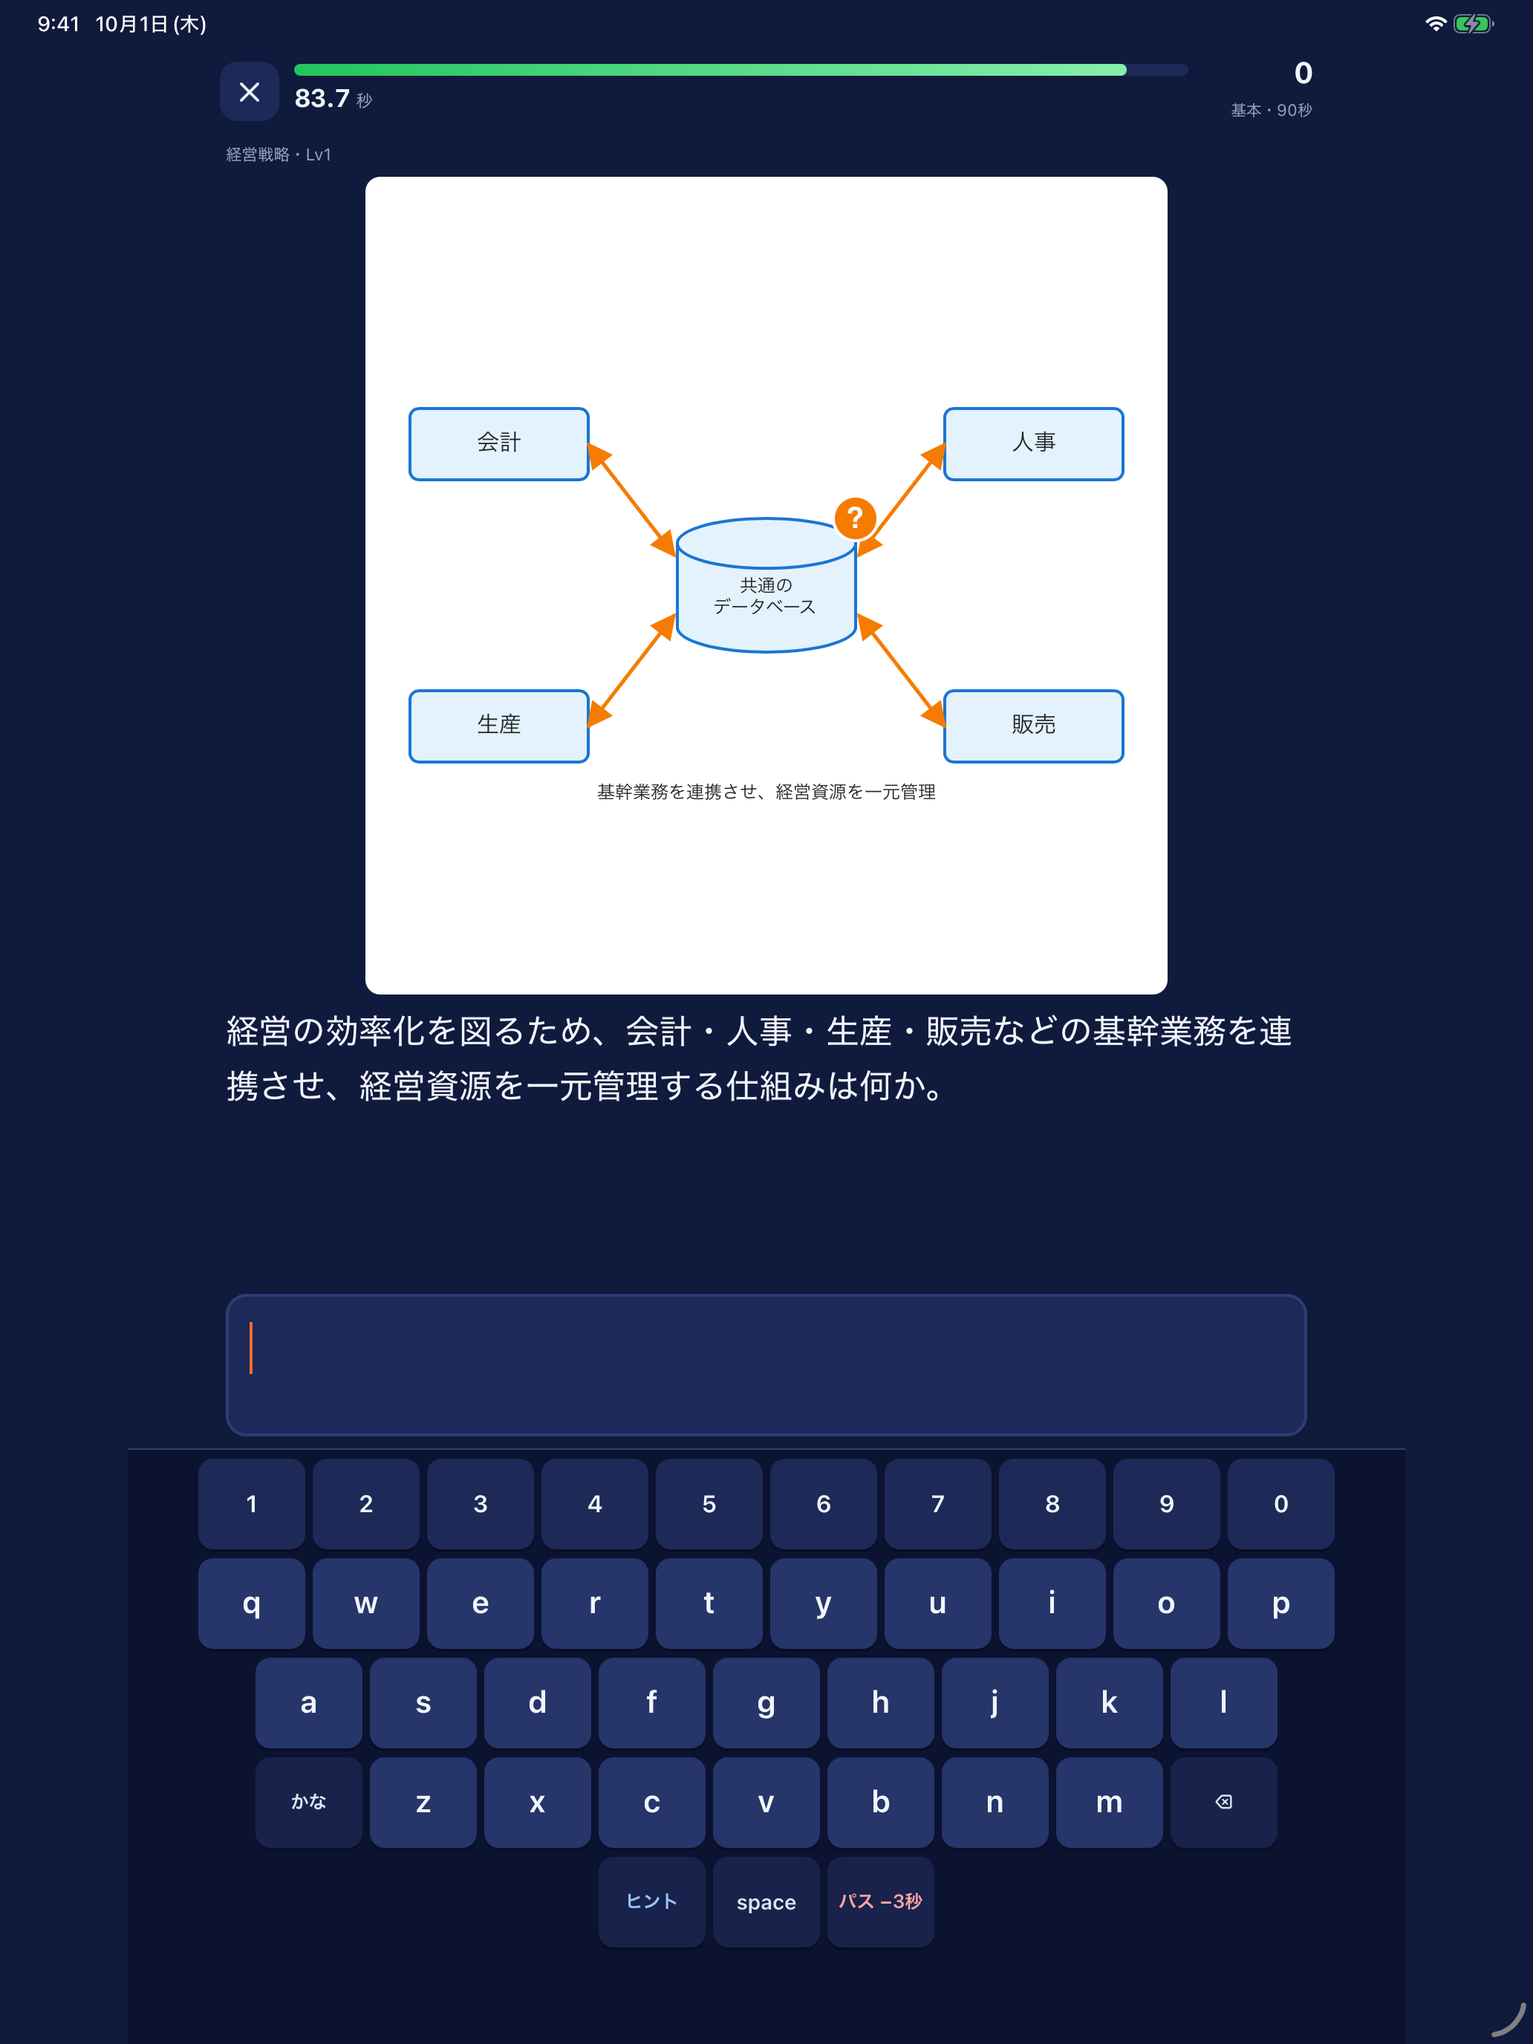
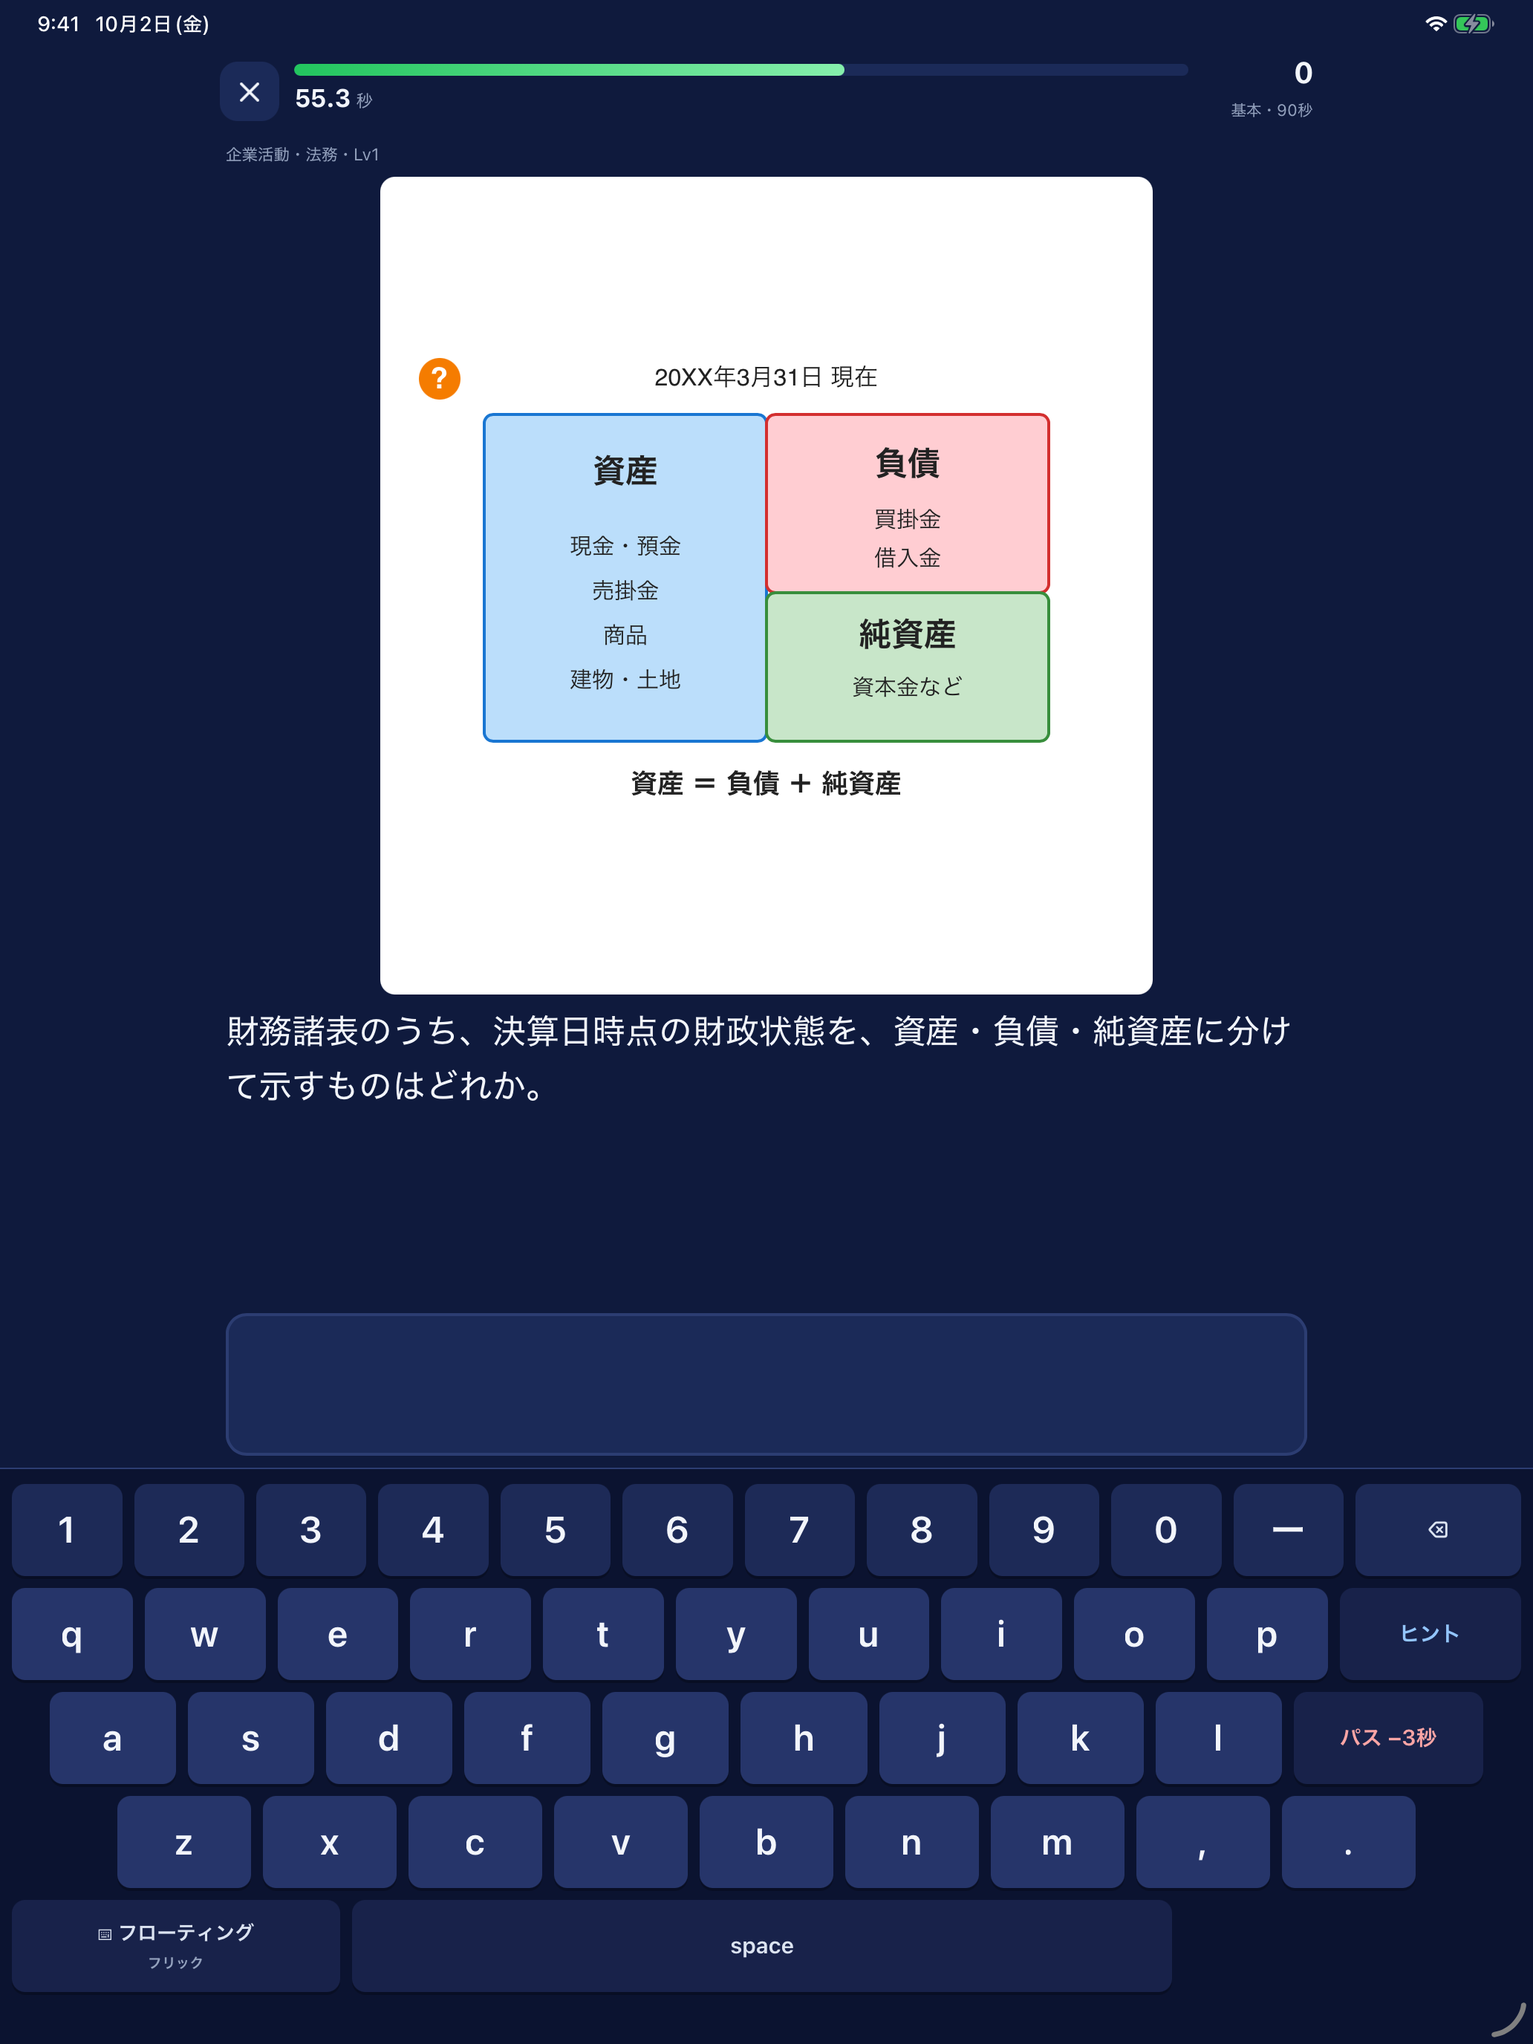
iPad: keyboard like the system one (docked full-width romaji, floating flick), Web-style versus panels
- Docked: full-width romaji keyboard at the bottom, about 1/4 of the height in portrait
  and 2/5 in landscape; kana answers are typed in romaji, the pending romaji shows at
  the bottom right
- Floating: the iPhone flick keyboard floats and can be dragged by its bar; choice and
  position are remembered; starts just above the answer box
- External keyboard still takes priority (on-screen keys fold down to ヒント・パス)
- Versus on iPad: you and each opponent side by side just above the keyboard, like the Web
- Ads unchanged (iPhone style bottom banner); new play and floating screenshots

diff --git a/mobile/www/js/keyboard.js b/mobile/www/js/keyboard.js
@@ -61,8 +61,11 @@ export class Keyboard {
     this.pressed = new Set();
     this.clear = () => { this.pop.hidden = true; [...this.pressed].forEach(r => r()); this.el.querySelectorAll('.kb-k.on').forEach(x => x.classList.remove('on')); };
     ['touchend', 'touchcancel'].forEach(t => document.addEventListener(t, e => { if (!e.touches.length) setTimeout(this.clear, 0); }));
-    this.render();
+    // iPad：ふだんは iPad 本体と同じ「下に横いっぱいのローマ字キーボード」。フローティングにすると iPhone の大きさのフリックが浮く
+    this.ipad = Math.min(screen.width, screen.height) >= 700;
+    try { this.floating = this.ipad && localStorage.getItem('kb-float') === '1'; } catch (e) { this.floating = false; }
     this.attachHardware();
+    this.render();
   }
 
   // 外付けキーボード。打ったら画面のキーボードをしまい（ヒント・パスだけ残す）、画面にさわったら戻す
@@ -84,27 +87,33 @@ export class Keyboard {
       // 残りが n だけで、答えの最後の「ん」なら、n 1 つで「ん」にする（途中の「ん」は次のキーで決める）
       if (buf === 'n' && peek(2) === 'ん') { send('ん'); buf = ''; }
     };
+    // 1 キー分（外付けキーボードと、iPad の画面のローマ字キーボードで共通）
+    const showBuf = () => { const b = this.el.querySelector('.kb-buf'); if (b) b.textContent = buf; };
+    this.typeRomaji = c => {
+      // 答えを打ち終えて次の問題を待っている間のキー（nn の 2 つ目など）は捨てる
+      if (this.h.peek && peek(1) === '') { buf = ''; showBuf(); return; }
+      // 英字の答え・英字のところは、そのまま渡す
+      if (this.mode === 'latin' || (!buf && isAsciiCh(peek(1)) && peek(1) !== 'ー')) { send(c); return; }
+      if (!/^[a-z'\-]$/.test(c)) { send(c); return; }
+      buf += c;
+      flush();
+      showBuf();
+    };
+    this.romajiBack = () => { if (buf) { buf = buf.slice(0, -1); showBuf(); } else this.h.onBack(); };
     const onKey = e => {
       if (!document.body.contains(this.el)) { document.removeEventListener('keydown', onKey, true); return; }
       if (e.metaKey || e.ctrlKey || e.altKey || e.isComposing) return;
       const k = e.key;
-      if (k === 'Backspace') { e.preventDefault(); if (buf) buf = buf.slice(0, -1); else this.h.onBack(); return; }
+      if (k === 'Backspace') { e.preventDefault(); this.romajiBack(); return; }
       if (k === 'Tab') { e.preventDefault(); if (this.h.onHint && !this.h.noHint) this.h.onHint(); return; }
       if (k.length !== 1) return;
       e.preventDefault();
       document.body.classList.add('hw-kb');
-      const c = k.toLowerCase();
-      // 答えを打ち終えて次の問題を待っている間のキー（nn の 2 つ目など）は捨てる
-      if (this.h.peek && peek(1) === '') { buf = ''; return; }
-      // 英字の答え・英字のところは、そのまま渡す
-      if (this.mode === 'latin' || (!buf && isAsciiCh(peek(1)) && peek(1) !== 'ー')) { send(c === ' ' ? ' ' : c); return; }
-      if (!/^[a-z'\-]$/.test(c)) { send(c); return; }
-      buf += c;
-      flush();
+      this.typeRomaji(k.toLowerCase());
     };
     document.addEventListener('keydown', onKey, true);
     // 画面にさわったら、画面のキーボードに戻す
-    const touch = () => { document.body.classList.remove('hw-kb'); buf = ''; };
+    const touch = () => { if (document.body.classList.contains('hw-kb')) { document.body.classList.remove('hw-kb'); buf = ''; showBuf(); } };
     document.addEventListener('touchstart', touch, { passive: true });
 
     // iPad では、外付けキーボードの字は「入力欄」に届く。見えない入力欄を置いて、そこに来た字を受け取る
@@ -129,7 +138,7 @@ export class Keyboard {
     };
     sink.addEventListener('beforeinput', e => {
       if (e.inputType === 'insertText' && e.data) { e.preventDefault(); feed(e.data); }
-      else if (e.inputType === 'deleteContentBackward') { e.preventDefault(); if (buf) buf = buf.slice(0, -1); else this.h.onBack(); }
+      else if (e.inputType === 'deleteContentBackward') { e.preventDefault(); this.romajiBack(); }
     });
     // 日本語入力（かな変換）を通ったときは、確定した字を受け取る
     sink.addEventListener('compositionend', e => { if (e.data) feed(e.data); sink.value = ''; });
@@ -152,10 +161,77 @@ export class Keyboard {
 
   render() {
     const k = (cls, label, data, extra) => `<button type="button" class="kb-k ${cls}" ${data || ''} ${extra || ''}>${label}</button>`;
+    if (this.ipad && !this.floating) return this.renderDock(k);
+    if (this.ipad && this.floating) return this.renderFloating(k);
+    this.renderKeys(this.el, k);
+  }
+
+  // iPad 本体のキーボードと同じ形：下に横いっぱい、ローマ字で打つ（かなの答えもローマ字で。英字の答えはそのまま）
+  renderDock(k) {
+    const keys = s => [...s].map(c => k('kb-latin', c, `data-r="${c}"`)).join('');
+    this.el.className = 'kb kb-dock' + (this.h.noHint ? ' no-hint' : '');
+    this.el.style.left = this.el.style.top = '';
+    this.el.innerHTML =
+      `<div class="kb-row kb-num">${keys('1234567890')}${k('kb-latin', 'ー', 'data-r="-"')}${k('kb-fn kb-back', '⌫', 'data-act="back"')}</div>` +
+      `<div class="kb-row">${keys('qwertyuiop')}${k('kb-fn kb-hint', 'ヒント', 'data-act="hint"')}</div>` +
+      `<div class="kb-row kb-in">${keys('asdfghjkl')}${k('kb-fn kb-pass', this.h.passLabel || 'パス −3秒', 'data-act="pass"')}</div>` +
+      `<div class="kb-row kb-in2">${keys('zxcvbnm')}${k('kb-latin', ',', 'data-r=","')}${k('kb-latin', '.', 'data-r="."')}</div>` +
+      `<div class="kb-row">${k('kb-fn kb-floatbtn', '⌨ フローティング<small>フリック</small>', 'data-act="float"')}${k('kb-fn kb-space', 'space', 'data-r=" "')}<span class="kb-buf" aria-live="polite"></span></div>`;
+    this.el.querySelectorAll('.kb-k').forEach(b => this.bind(b));
+  }
+
+  // iPad のフローティング：iPhone の大きさのキーボード（フリック）が浮いていて、上の帯をつかんで動かせる
+  renderFloating(k) {
+    this.el.className = 'kb kb-floating' + (this.h.noHint ? ' no-hint' : '');
+    this.el.innerHTML = `<div class="kb-handle"><span class="kb-grip"></span><button type="button" class="kb-dockbtn">下に戻す</button></div><div class="kb-body"></div>`;
+    this.renderKeys(this.el.querySelector('.kb-body'), k, true);
+    let pos = null;
+    try { pos = JSON.parse(localStorage.getItem('kb-float-pos') || 'null'); } catch (e) {}
+    const place = (x, y) => {
+      const w = this.el.offsetWidth || 360, hh = this.el.offsetHeight || 300;
+      x = Math.max(4, Math.min(innerWidth - w - 4, x)); y = Math.max(4, Math.min(innerHeight - hh - 4, y));
+      this.el.style.left = x + 'px'; this.el.style.top = y + 'px';
+      return { x, y };
+    };
+    // はじめは右下、答えの欄にかぶらないよう、そのすぐ上に置く
+    requestAnimationFrame(() => {
+      const w = this.el.offsetWidth || 360, hh = this.el.offsetHeight || 300;
+      const ans = document.getElementById('ans');
+      const top = ans ? ans.getBoundingClientRect().top - hh - 12 : innerHeight - hh - 24;
+      place(pos ? pos.x : innerWidth - w - 24, pos ? pos.y : top);
+    });
+    const handle = this.el.querySelector('.kb-handle');
+    let drag = null;
+    handle.addEventListener('touchstart', e => {
+      if (e.target.closest('.kb-dockbtn')) return;
+      const t0 = e.touches[0], r = this.el.getBoundingClientRect();
+      drag = { dx: t0.clientX - r.left, dy: t0.clientY - r.top };
+      e.preventDefault();
+    }, { passive: false });
+    handle.addEventListener('touchmove', e => {
+      if (!drag) return;
+      const t0 = e.touches[0];
+      const p = place(t0.clientX - drag.dx, t0.clientY - drag.dy);
+      try { localStorage.setItem('kb-float-pos', JSON.stringify(p)); } catch (x) {}
+      e.preventDefault();
+    }, { passive: false });
+    handle.addEventListener('touchend', () => { drag = null; });
+    this.el.querySelector('.kb-dockbtn').onclick = () => this.setFloating(false);
+  }
+
+  setFloating(on) {
+    this.floating = !!on;
+    try { localStorage.setItem('kb-float', on ? '1' : '0'); } catch (e) {}
+    this.render();
+  }
+
+  // iPhone（と iPad のフローティング）の中身：かなはフリック、英字は QWERTY
+  renderKeys(box, k, floating) {
+    const fl = floating ? '' : 'kb ';
     if (this.mode === 'kana') {
       const kana = r => r.map(c => k('kb-kana', `<span class="kb-main">${c}</span><span class="kb-sub">${FLICK[c].slice(1).filter(Boolean).join('')}</span>`, `data-kana="${c}"`)).join('');
-      this.el.className = 'kb kb-flick' + (this.h.noHint ? ' no-hint' : '');
-      this.el.innerHTML =
+      box.className = fl + 'kb-flick' + (this.h.noHint ? ' no-hint' : '');
+      box.innerHTML =
         k('kb-fn kb-mode', 'ABC', 'data-act="mode"') + kana(['あ', 'か', 'さ']) + k('kb-fn kb-back', '⌫', 'data-act="back"') +
         k('kb-fn kb-hint kb-tall', 'ヒント<small>次の1字</small>', 'data-act="hint"') + kana(['た', 'な', 'は']) +
         k('kb-fn kb-pass kb-tall', this.h.passLabel || 'パス<small>−3秒</small>', 'data-act="pass"') +
@@ -163,12 +239,12 @@ export class Keyboard {
         k('kb-fn kb-cycle', '゛゜小', 'data-act="cycle"') + kana(['わ']) + k('kb-kana kb-cho', '<span class="kb-main">ー</span>', 'data-ch="ー"');
     } else {
       const row = (s, cls) => `<div class="kb-row ${cls || ''}">${[...s].map(c => k('kb-latin', c, `data-ch="${c}"`)).join('')}</div>`;
-      this.el.className = 'kb kb-qwerty' + (this.h.noHint ? ' no-hint' : '');
-      this.el.innerHTML = row(QWERTY[0], 'kb-num') + row(QWERTY[1]) + row(QWERTY[2], 'kb-in') +
+      box.className = fl + 'kb-qwerty' + (this.h.noHint ? ' no-hint' : '');
+      box.innerHTML = row(QWERTY[0], 'kb-num') + row(QWERTY[1]) + row(QWERTY[2], 'kb-in') +
         `<div class="kb-row">${k('kb-fn kb-mode', 'かな', 'data-act="mode"')}${[...QWERTY[3]].map(c => k('kb-latin', c, `data-ch="${c}"`)).join('')}${k('kb-fn kb-back', '⌫', 'data-act="back"')}</div>` +
         `<div class="kb-row">${k('kb-fn kb-hint', 'ヒント', 'data-act="hint"')}${k('kb-fn kb-space', 'space', 'data-ch=" "')}${k('kb-fn kb-pass', this.h.passLabel || 'パス −3秒', 'data-act="pass"')}</div>`;
     }
-    this.el.querySelectorAll('.kb-k').forEach(b => this.bind(b));
+    box.querySelectorAll('.kb-k').forEach(b => this.bind(b));
   }
 
   // キーの押す・滑らせる・離す。iPhone ではタッチの知らせ（touchstart / touchmove / touchend）で受ける
@@ -201,10 +277,12 @@ export class Keyboard {
       this.pop.hidden = true;
       if (cancel) return;
       if (kana) { this.h.onChar(FLICK[kana][d] || FLICK[kana][0]); return; }
+      if (b.dataset.r) { this.typeRomaji(b.dataset.r); return; }
       if (b.dataset.ch) { this.h.onChar(b.dataset.ch); return; }
       const act = b.dataset.act;
       if (act === 'mode') this.setMode(this.mode === 'kana' ? 'latin' : 'kana');
-      else if (act === 'back') this.h.onBack();
+      else if (act === 'back') { if (this.typeRomaji && this.ipad && !this.floating) this.romajiBack(); else this.h.onBack(); }
+      else if (act === 'float') this.setFloating(true);
       else if (act === 'cycle') this.h.onCycle();
       else if (act === 'hint') this.h.onHint();
       else if (act === 'pass') this.h.onPass();

diff --git a/mobile/www/js/versus.js b/mobile/www/js/versus.js
@@ -282,6 +282,23 @@ function rounds(start) {
     $('meters').innerHTML = meterHtml(vs.room.rule, vs.room.target, scores, lives);
   }
   function opps() {
+    // iPad（広い画面）は Web 版と同じく、問題の下に「自分の入力」と相手ごとの枠を横に並べる
+    if (matchMedia('(min-width: 700px)').matches) {
+      const others = vs.players.filter(p => p.seat !== vs.seat);
+      $('stage').style.setProperty('--vs-n', String(others.length + 1));
+      $('stage').classList.add('vs-wide');
+      $('ans').dataset.who = 'あなた';
+      $('opps').innerHTML = others.map((p, i) => {
+        const o = g.opp[p.seat] || {};
+        const pct = o.total ? Math.round(o.done / o.total * 100) : 0;
+        return `<div class="op-panel ${COLORS[i % 3]}${o.out ? ' out' : ''}">
+          <div class="op-name">${esc(p.name)} ${p.dev === 'app' ? '📱' : '⌨'}</div>
+          <div class="op-typed">${esc(o.typed || '')}${o.out ? '<small>（打てません）</small>' : ''}</div>
+          <div class="bar"><i style="width:${o.out ? 100 : pct}%"></i></div></div>`;
+      }).join('');
+      return;
+    }
+    $('stage').classList.remove('vs-wide');
     $('opps').innerHTML = vs.players.filter(p => p.seat !== vs.seat).map(p => {
       const o = g.opp[p.seat] || {};
       const pct = o.total ? Math.round(o.done / o.total * 100) : 0;

diff --git a/mobile/README.md b/mobile/README.md
@@ -37,9 +37,14 @@ UDID は `xcrun devicectl list devices` で見る。署名のチームは P89RKR
 
 - iPhone と iPad の両方に対応（`TARGETED_DEVICE_FAMILY = "1,2"`）。iPad は縦横どちらでも使える
 - 広い画面（幅 700pt 以上）では、中身を真ん中に集める（`www/css/app.css` の最後）
+- 画面のキーボードは iPad 本体と同じ形：下に横いっぱいのローマ字キーボード（縦向きは画面の約 1/4、横向きは約 4 割の高さ）。
+  かなの答えもローマ字で打つ（打ちかけのローマ字はキーボードの右下に出る）。
+  「フローティング」を押すと iPhone の大きさのフリックキーボードが浮き、上の帯で動かせる（どちらにしたかと位置は端末に残す）
+- 対戦は Web 版と同じく、問題の下（キーボードのすぐ上）に「あなた」と相手の枠を横に並べる
+- 広告は iPhone と同じ（下にバナー、遊んでいる最中と対戦中は出さない）
 - 外付けキーボード（Magic Keyboard など）：英字のまま打てばローマ字をかなに直して入る（`www/js/keyboard.js` の attachHardware）。
   打つと画面のキーボードがしまわれ（ヒント・パスだけ残る）、画面にさわると戻る。Tab でヒント
-- App Store 用の 13 インチ iPad のスクリーンショットは `store-shots/ipad13/`（2064×2752）
+- App Store 用の 13 インチ iPad のスクリーンショットは `store-shots/ipad13/`（2064×2752、5 枚）
 
 ## 広告（AdMob）
 
